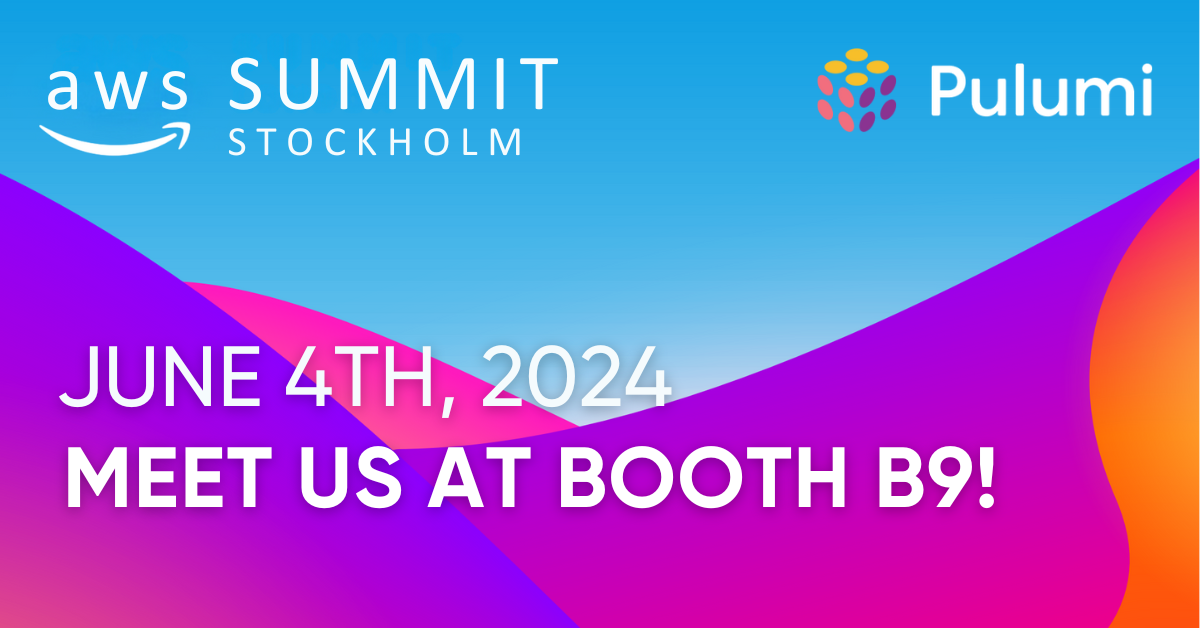
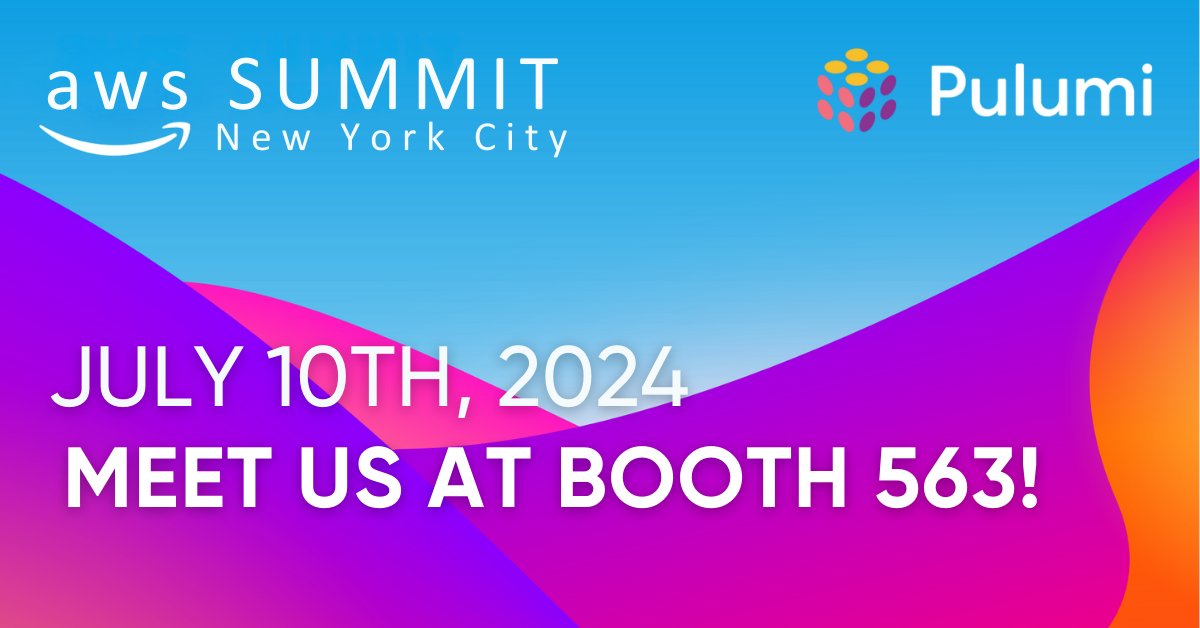
update aws summit page for aws summit nyc

diff --git a/layouts/page/aws-summit.html b/layouts/page/aws-summit.html
@@ -5,7 +5,7 @@
 {{ define "main" }}
     <div class="container w-2/3 mt-16 text-center mx-auto relative">
         <img src="/images/mascot/backpack-pulumipus.svg" alt="" style="transform:scale(-0.5,0.5); top:-128px; left:-280px" class="absolute hidden lg:block" />
-        <h5>We will be at AWS Summit Stockholm <b>Booth B9</b></h5>
+        <h5>We will be at AWS Summit NYC <b>Booth 563</b></h5>
         <h5>Join us to find out how Pulumi’s Infrastructure as Code reduces cloud complexity, accelerates development velocity and helps companies scale and innovate.</h5>
     </div>
 

diff --git a/content/aws-summit/_index.md b/content/aws-summit/_index.md
@@ -1,6 +1,6 @@
 ---
-title: Pulumi + AWS Summit Stockholm
-meta_desc: Join Pulumi at AWS Summit Stockholm to learn about the latest developments in infrastructure as code. Meet us at booth B9.
+title: Pulumi + AWS Summit NYC
+meta_desc: Join Pulumi at AWS Summit NYC to learn about the latest developments in infrastructure as code. Meet us at booth 563.
 meta_image: /images/aws-summit-meta.png
 type: page
 layout: aws-summit
@@ -15,25 +15,20 @@ links:
 
 workshops:
     items:
-      - title: Getting Started with Kubernetes on AWS using Pulumi
-        date: June 11, 2024
-        description: Learn the fundamentals of setting up EKS clusters on AWS and deploying a containerized workload to the cluster.
-        link: /resources/getting-started-with-kubernetes-aws/
+      - title: Getting started with CI/CD for AWS using GitHub Actions
+        date: July 17, 2024
+        description: In this workshop, you will learn the fundamentals of an infrastructure CI/CD pipeline through guided exercises. You will use GitHub Actions and Pulumi.
+        link: /resources/getting-started-with-ci-cd-aws-pulumi-github-actions/
         action: Register Now
-      - title: Policy as Code on AWS
-        date: June 13, 2024
-        description: Learn best practices and how to write policies for AWS resources with Pulumi using Python and TypeScript.
-        link: /resources/securing-deployments-policy-as-code/
+      - title: From Zero to Production in Kubernetes
+        date: July 25, 2024
+        description: We’ll explore how to leverage the power of Python with Pulumi, an infrastructure as code platform to define and manage your Kubernetes deployments.
+        link: /resources/from-zero-to-production-in-kubernetes/
         action: Register Now
-      - title: Getting Started with Infrastructure as Code on AWS
-        date: June 27, 2024
-        description: Learn the fundamentals of Infrastructure as Code through a series of guided exercises using AWS and Pulumi’s platform
-        link: /resources/getting-started-with-iac-aws-typescript/
-        action: Register Now
-      - title: Building AI-powered Applications at Pulumi
-        date: July 10, 2024
-        description: Learn how the Pulumi engineering team builds AI-powered capabilities and the lessons learned.
-        link: /resources/building-ai-powered-applications-at-pulumi/
+      - title: Advanced CI/CD for AWS using Pulumi and GitHub Actions
+        date: August 14, 2024
+        description: Learn advanced topics that make up a robust infrastructure CI/CD pipeline through guided exercises.
+        link: /resources/advanced-cicd-aws-pulumi-github-actions/
         action: Register Now
 
 templates:
@@ -65,8 +60,6 @@ knowledge:
 customer_logos:
   title: Trusted by your peers
   logos:
-    - name: mercedes-benz
-      link: /case-studies/mercedes-benz
     - name: snowflake
       link: /case-studies/snowflake
     - name: lemonade

diff --git a/content/resources/aws-summit/index.md b/content/resources/aws-summit/index.md
@@ -1,7 +1,7 @@
 ---
 # Name of the event, <= 60 characters
-title: Pulumi + AWS Summit London
-meta_desc: Join Pulumi at AWS Summit London to learn about the latest developments in infrastructure as code. Meet us at booth B14, April 24, 2024
+title: Pulumi + AWS Summit NYC
+meta_desc: Join Pulumi at AWS Summit NYC to learn about the latest developments in infrastructure as code. Meet us at booth 563.
 meta_image: /images/aws-summit-meta.png
 
 # A featured webinar will display first in the list.
@@ -31,7 +31,7 @@ url_slug: https://pulumi.com/aws-summit/
 # Content for the left hand side section of the page.
 main:
     # Webinar title.
-    title: AWS Summit London
+    title: AWS Summit NYC
 
     event_type: event # workshop | event
 
@@ -39,13 +39,13 @@ main:
     youtube_url:
 
     # Sortable date. The datetime Hugo will use to sort the webinars in date order.
-    sortable_date: 2024-04-24T09:00:00-00:00
+    sortable_date: 2024-07-10T09:00:00-00:00
 
     # Duration of the webinar.
     duration: 1 hour
 
     # "virtual" will be shown under "show virtual events only", otherwise shown as City, State (seattle, wa)
-    location: London, England
+    location: New York, NY
 
     # Description of the webinar.
     description:
